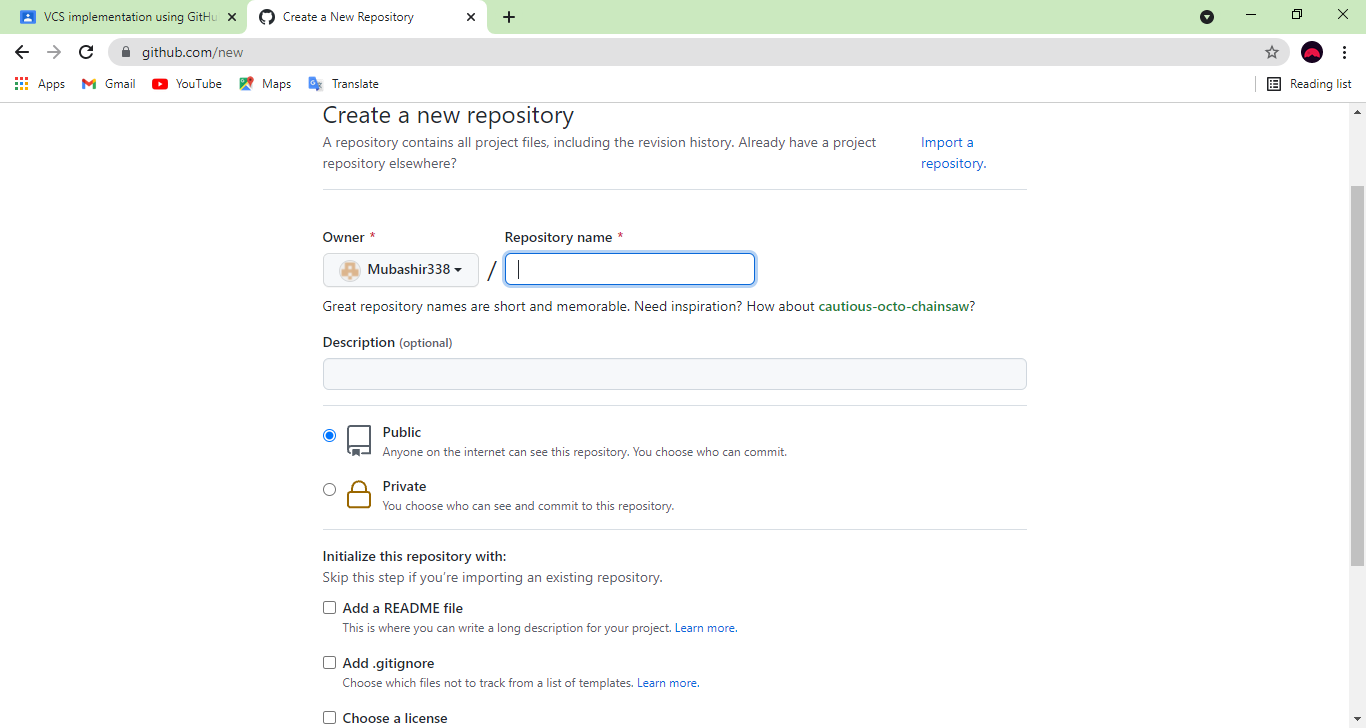
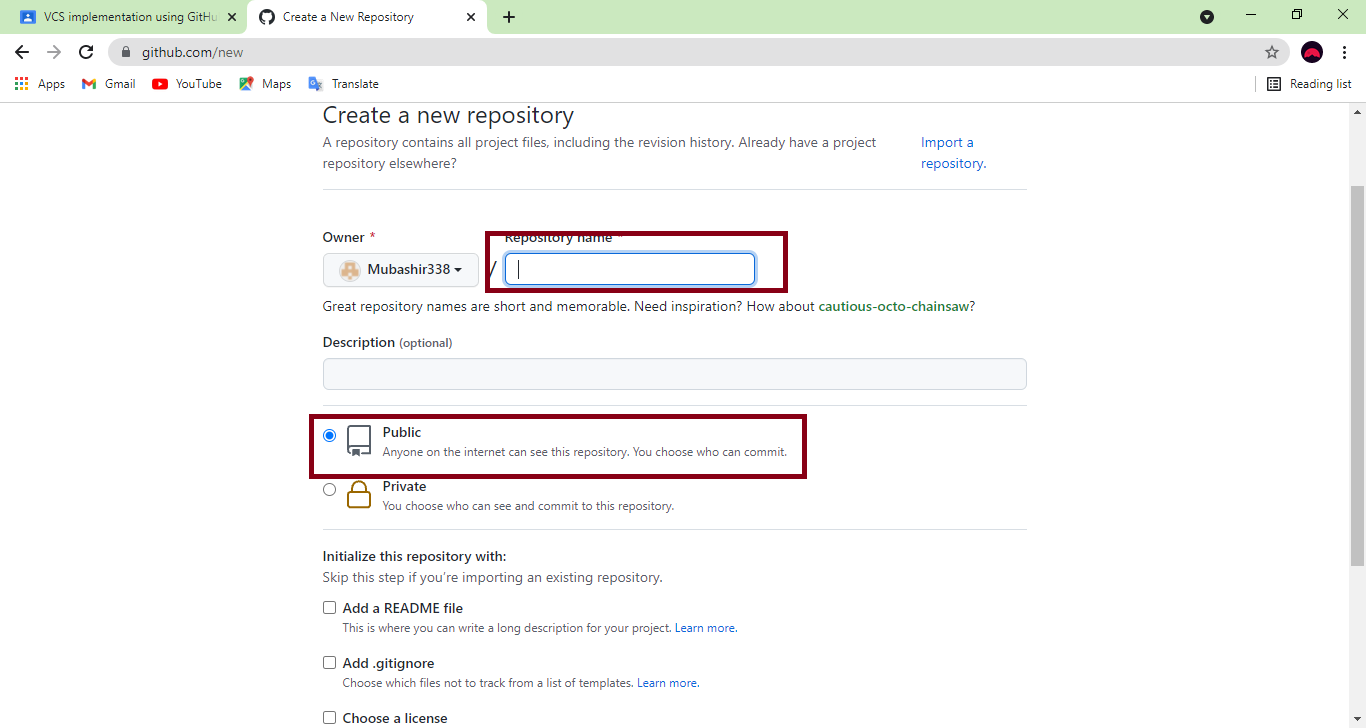
Named repository added

Changed region(s): [[0.2152, 0.544, 0.6149, 0.6648], [0.3382, 0.3022, 0.5842, 0.4231]]

diff --git a/task.html b/task.html
@@ -10,5 +10,10 @@
     <h1> Creating repository</h1>
     <p>In this section we will create a new repository in github which will help us save our code </p>
     <img src = "New rep.png" alt="Creating new repository" style="width: 700px; height: 400px;">
+    <h1> Naming repository</h1>
+    <p>In this section we will name a new repository in github which will help us identify our projects. We will keep it public as it will ask for payment options if we opt for private repository </p>
+    <img src = "Rep name.png" alt="Naming new repository" style="width: 700px; height: 400px;">
+    
+
 </body>
 </html>
